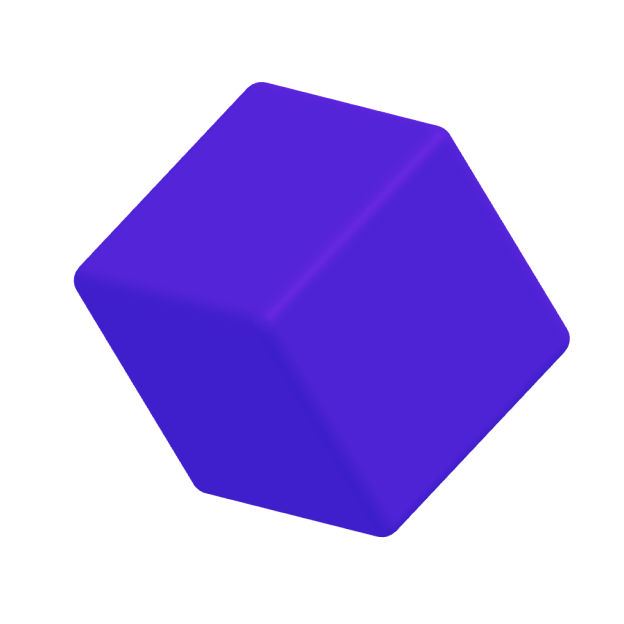
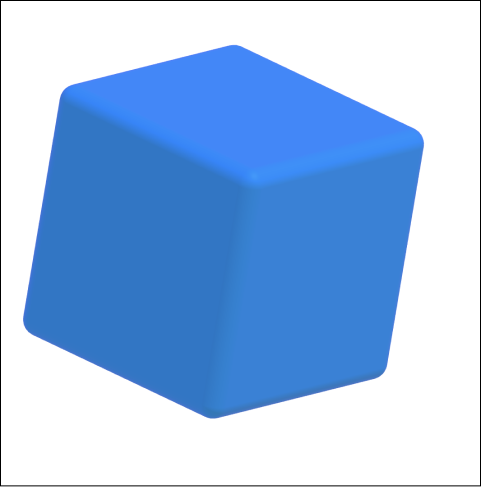
first version final

diff --git a/css/main.css b/css/main.css
@@ -159,6 +159,7 @@ iframe {
 }
 
 .what {
+
   margin-top: 10vh;
 position: absolute;
 width: 30%;
@@ -231,6 +232,7 @@ left: 10%;
 }
 
 .reasons {
+  z-index: 10;
   width: 100%;
   height: 135vh;
   background: linear-gradient(180deg,
@@ -495,7 +497,7 @@ margin-top: 4vh;
 
 
 /* small phones */
-@media (max-width: 500px) {
+@media (max-width: 500px) and (min-width: 321px) {
 
   .navbar {
     display: none;
@@ -517,6 +519,10 @@ margin-top: 4vh;
   .text p{
     margin: 0px;
     padding-top: 0px;
+  }
+  .homepage{
+    height: 115vh;
+
   }
   .textCol{
     width: 100%;
@@ -549,6 +555,7 @@ margin-top: 4vh;
   display: none;
 }
 	.cubom {
+    padding-left: 7vw;
     position: relative;
     display: block;
 		/* position: absolute; */
@@ -593,7 +600,7 @@ margin-top: 4vh;
   .pc h1 {
     z-index: 10;
     position: relative;
-    margin-top: 20vh;
+    margin-top: 40vh;
     color: rgba(76, 76, 76, 1);
     text-align: center;
   }
@@ -686,7 +693,7 @@ right: 0;
   top: 45vh;
     position: absolute;
     right: -63vw;
-    width: 103vh;
+    width: 220vw;
 }
 	.data {
 		margin-top: 20vh;
@@ -703,7 +710,301 @@ right: 0;
     }
 
     .form{
-      padding: 70vh 0 10vh;
+      padding: 80vh 0 10vh;
+
+    }
+    .final{
+      display: flex;
+      flex-direction: column;
+      padding-left: 4vw;
+
+    }
+
+    .ham{
+      display: flex;
+    }
+
+    .content{
+      display: flex;
+    }
+
+    .ham {
+      /* always keep ham on top of everything */
+      position: relative;
+      z-index: 2000;
+      padding-bottom: 3vh;
+      padding-right: 10vw;
+      border: none;
+      cursor: pointer;
+      background-color: transparent;
+      background-size: 100%;
+    }
+
+    .ham img{
+      width: 100%;
+    }
+
+
+    .content {
+      position: absolute;
+      z-index: 1999;
+      top: 0;
+      left: 0;
+      background: #ffffff;
+      width: 100vw;
+      height: 100vh;
+      overflow: hidden;
+      color: white;
+      /* hide the menu above the screen by default */
+      transform: translateY(-100%);
+      /* transition adds a little animation when sliding in and out the menu */
+      transition: transform 0.2s ease;
+    }
+
+
+    .showNav {
+      /* show the menu */
+      transform: translateY(0);
+    }
+
+    /* basic nav styling below */
+
+    .content ul {
+      padding: 0;
+      width: 100%;
+      height: 50%;
+      list-style: none;
+      display: flex;
+      flex-flow: column;
+      justify-content: space-evenly;
+      align-items: center;
+    }
+
+    .content ul li a {
+      color:  #01A6FF;
+      padding-bottom: 10px;
+      text-decoration: none;
+      font-family: 'Open Sans', sans-serif;
+      font-size: 1.2rem;
+    }
+}
+@media (max-width: 320px) and (min-width: 250px) {
+
+  .navbar {
+    display: none;
+  }
+
+	.text {
+    position: relative;
+    z-index: 1;
+		margin-left: 1vw;
+		color: rgba(76, 76, 76, 1);
+    font-weight: bold;
+    margin-left: 5vw;
+    margin-right: 5vw;
+	}
+  .text h1{
+    font-size: 14vw;
+    line-height: 9vh;
+  }
+  .text p{
+    margin: 0px;
+    padding-top: 0px;
+  }
+  .homepage{
+    height: 115vh;
+
+  }
+  .textCol{
+    width: 100%;
+		display: flex;
+		flex-direction: column;
+	}
+
+	.text-and-cube{
+		display: flex;
+		flex-direction: column;
+	}
+
+	.letter,
+	.letter1,
+	.letter2 {
+		display: inline-block;
+		margin: 0px;
+		line-height: 1em;
+	}
+
+	#textof {
+		margin-top: 3vh;
+		margin-left: 5vh;
+		margin-right: 2vh;
+		color: rgba(31, 31, 31, 0.6);
+		font-weight: normal;
+		width: 80vw;
+	}
+.cubo{
+  display: none;
+}
+	.cubom {
+    padding-left: 7vw;
+    position: relative;
+    display: block;
+		/* position: absolute; */
+    width: 95%;
+    margin: 5vh auto 0;
+	}
+
+	.countdownDesktop {
+		display: none;
+    }
+
+
+.what{
+  width: 90%;
+  position: relative;
+  margin: 0 auto;
+  left: 0;
+}
+  .what h2 {
+  z-index: 10;
+  color: #4C4C4C;
+  font-size: 2rem;
+}
+.fact{
+  position: relative;
+  width: 90%;
+  margin: 0 auto;
+  margin-top: 150%;
+  right: 0;
+}
+.animation{
+  top: 84%;
+    left: -280%;
+}
+
+  .pc {
+    padding: 16vh 0;
+    margin-top: 0vh;
+    width: 100vw;
+    height: 83vh;
+  }
+
+  .pc h1 {
+    z-index: 10;
+    position: relative;
+    margin-top: 40vh;
+    color: rgba(76, 76, 76, 1);
+    text-align: center;
+  }
+
+  .pc img {
+    z-index: 10;
+    width: 100vw;
+    height: auto;
+  }
+
+  .submiter input[type='text'] {
+    position: absolute;
+    width: 34vw;
+    border-image-source: linear-gradient(270deg, #00CCFF 4%, #0099FF 34.76%, #CC66FF 65.33%, #6600CC 96.28%);
+    border-image-slice: 1;
+    border-width: 0 0 2px;
+    outline: none;
+    outline: 0;
+    box-shadow: none;
+  }
+
+.reasons{
+  position: relative;
+  height: 150vh;
+
+
+}
+  .reasons h1 {
+    position: relative;
+    color: #ffffff;
+    margin:  3vh auto;
+    width: 90%;
+    padding-top: 5vh;
+
+  }
+
+
+#texto0,#texto1,#texto2,#texto3,#texto4,#texto5,#texto6{
+  position: relative;
+  width:90%;
+  margin: 3vh auto;
+}
+#texto6{
+top:0;
+left:0;
+text-align: initial;
+transform: initial;
+
+}
+.floating{
+  margin-top: -63vh;
+}
+
+
+  .floating img {
+    width: 70vw;
+    height: 150vh;
+    margin-top: 10vh;
+  }
+.about{
+  display:flex;
+  flex-direction: column;
+}
+.aboutt{
+  width: 90%;
+margin: 5vh auto;
+}
+
+.scroller {
+  display: none;
+}
+.scroller canvas{
+  display: none
+}
+.dotsm{
+  display: block;
+  z-index: 3;
+  width: 50%;
+  margin: 0 auto;
+}
+.aboutt p,.aboutt h1{
+  width: 100%;
+margin: 0 ;
+}
+#dots{
+  margin-top: 16vh;
+position: relative;
+width: 100%;
+right: 0;
+}
+.scene{
+  top: 64vh;
+  position: absolute;
+  right: -63vw;
+  width: 220vw;
+}
+	.data {
+		margin-top: 20vh;
+		position: relative;
+		width: 100vw;
+		height: 100vh;
+		background: linear-gradient(180deg,
+			#00CCFF 0%,
+			#01A6FF 100%);
+		}
+
+    .data p{
+      margin-top:10vh;
+    }
+
+    .form{
+      padding:105vh 0 10vh;
 
     }
     .final{

diff --git a/index.html b/index.html
@@ -48,8 +48,8 @@
             jobs.</p>
         </div>
       </div>
-      <iframe class="cubo" src='https://my.spline.design/testes-0952e589d2dae705283a8a3f6f126d69/' frameborder='0'></iframe>
-      <img class="cubom" src="images/cubem.png" alt="">
+<iframe src='https://my.spline.design/testes-0952e589d2dae705283a8a3f6f126d69/' frameborder='0'></iframe>
+      <img class="cubom" src="images/cubem.svg" alt="">
     </div>
   </div>
   <div class="data">
